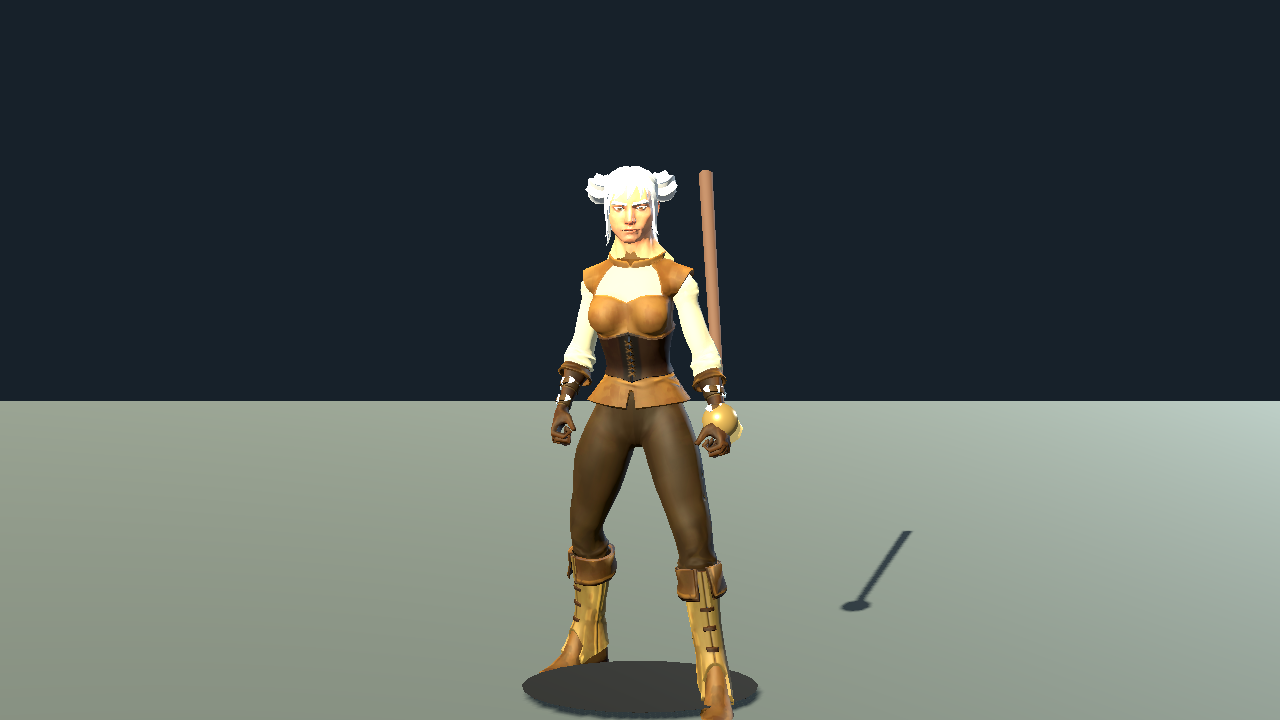
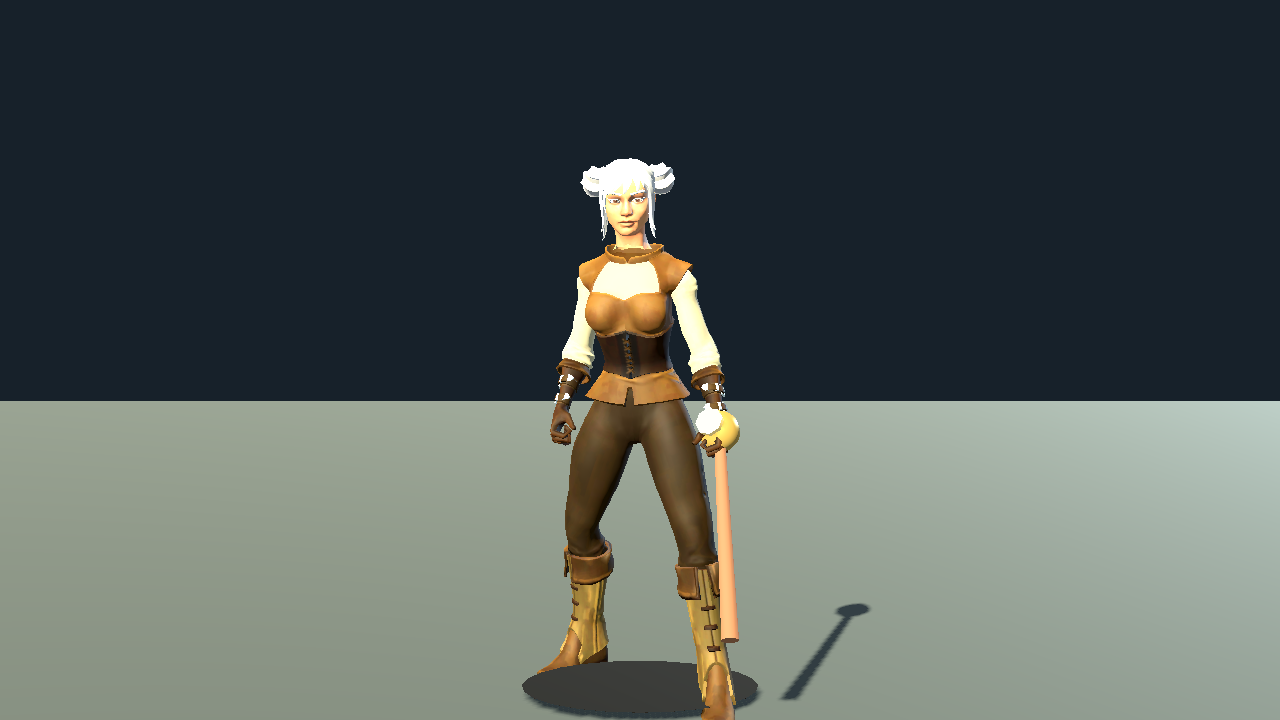
checkpoint: correct Anwen staff socket presentation

Changed region(s): [[0.4375, 0.2139, 0.625, 0.9778], [0.625, 0.7944, 0.6875, 0.9472], [0.6875, 0.7333, 0.7188, 0.7944]]

diff --git a/outputs/AshenOathTheRoadBetweenCrowns/RECOVERY_004_IMPLEMENTATION_STATUS.md b/outputs/AshenOathTheRoadBetweenCrowns/RECOVERY_004_IMPLEMENTATION_STATUS.md
@@ -622,3 +622,11 @@ Do not sync `.release-gate/AshenOath_QA` into `web/`; it is not the production b
 
 1. Keep the renderer/RID/ObjectDB shutdown diagnostics tracked as ENGINE-004/QA-005 debt; they do not invalidate the passing release gate but should be eliminated in the next engineering pass.
 2. Continue visual reconstruction of Greyfen, Wychwood, Castle/Record Hall, and the Hart only as a new scoped ticket; the current release remains deliberately stylized and honest.
+
+## Latest Atomic Checkpoint - 2026-09-10 (Anwen staff socket correction)
+
+- Current ticket: `CHAR-RESTORE-001` atomic presentation follow-up.
+- Completed work: corrected the Universal hand-socket orientation for Anwen's staff, shortened the shaft to the hand-prop scale, lowered its attachment offset, and kept the prop on a `BoneAttachment3D` so it follows the hand during animation. No proxy anatomy or root-mounted fallback was added.
+- Latest result: the graphical `capture_char_restore_001.gd` run passed at 1280x720; `verify_character_real_001.gd`, `verify_char_qa_001.gd`, and `verify_char_gameplay_qa_001.gd` all passed. The inspected `CHAR-RESTORE-001_A2_Anwen.png` frame shows a grounded, hand-held staff with no shaft through the head or detached upper prop.
+- Remaining blocker: the broader recovery remains incomplete. The existing ObjectDB shutdown diagnostic, provisional world/monster presentation, and unrelated dirty export/asset work are still tracked; no production promotion is justified by this atomic fix.
+- Exact next action: after the paused goal is explicitly resumed, review the remaining dirty files and select the next scoped recovery slice before any broader verification or release work.
